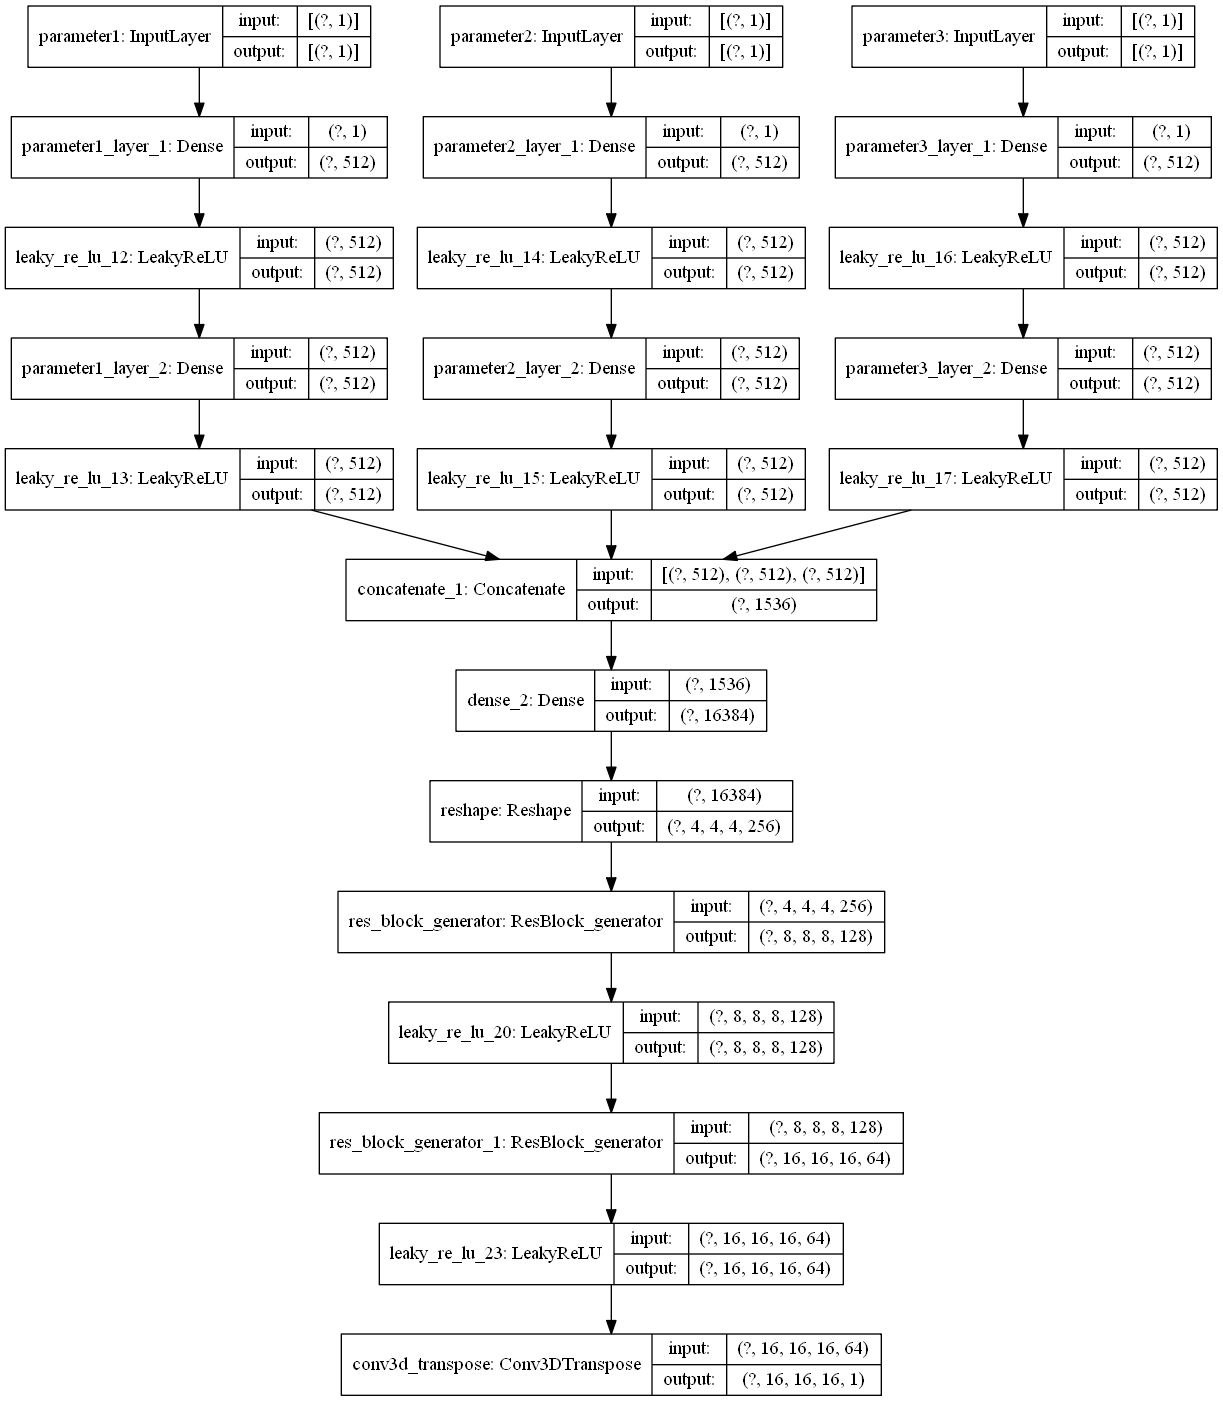
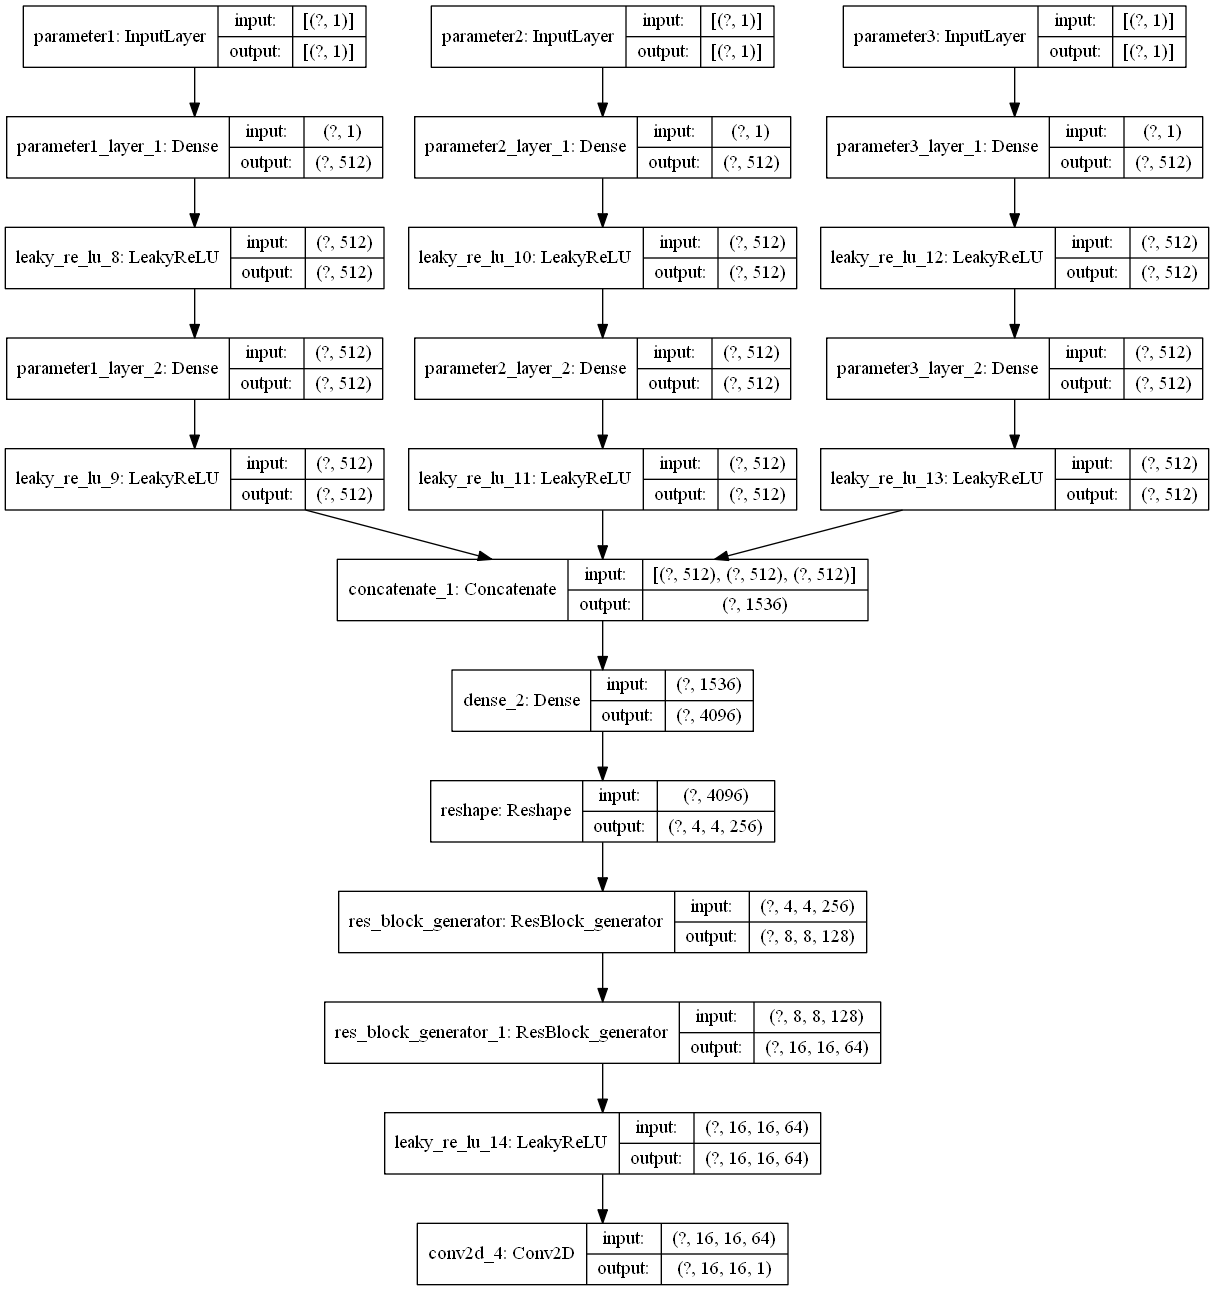
一個class的GAN修正完畢(加上PReLU和部分層修改)

Changed region(s): [[0.0, 0.0, 1.0, 1.0]]

diff --git a/GAN.py b/GAN.py
@@ -4,7 +4,6 @@ from tensorflow.keras import layers
 from tensorflow.keras.utils import plot_model
 from IPython.display import Image
 from functools import partial
-from math import log
 from resblock import ResBlock_generator, ResBlock_discriminator
 import tensorflow as tf
 from SpectralNormalization import SpectralNormalization
@@ -58,18 +57,18 @@ class GAN():
 
         concatenate = layers.concatenate(inputs = [x, y, z])
         
-        g =layers.Dense(4*4*4*int(self.width/4)*self.filterNumber)(concatenate)
-        g = layers.Reshape((4, 4, 4, int(self.width/4)*self.filterNumber))(g)
+        g =layers.Dense(4*4*int(self.width/4)*self.filterNumber)(concatenate)
+        g = layers.Reshape((4, 4,  int(self.width/4)*self.filterNumber))(g)
         
-        for i in range(int(log(self.width/4, 2))-1, -1, -1):
+        for i in range(int(tf.math.log(self.width/4, 2))-1, -1, -1):
            # g = SpectralNormalization(layers.Conv2DTranspose((2**i)*self.filterNumber, kernel_size=3, strides=2, padding='same', use_bias=False))(g)
             g = ResBlock_generator((2**i)*self.filterNumber)(g)
             #g = layers.Conv3DTranspose((2**i)*self.filterNumber, kernel_size=3, strides=2, padding='same', use_bias=False)(g)
-            g = layers.LeakyReLU()(g)
+        g = layers.LeakyReLU()(g)
         
 
         #g = SpectralNormalization(layers.Conv2DTranspose(1, kernel_size=3, strides=1, padding='same', use_bias=False))(g)
-        g = layers.Conv3DTranspose(1, kernel_size=3, strides=1, padding='same', use_bias=False)(g)
+        g = layers.Conv2D(1, kernel_size=3, strides=1, padding='same', use_bias=False)(g)
         
         #g = layers.Activation(tf.nn.tanh)(g)
         
@@ -82,7 +81,7 @@ class GAN():
         parameter1_input = keras.Input(shape = (1), name = 'parameter1')
         parameter2_input = keras.Input(shape = (1), name = 'parameter2')
         parameter3_input = keras.Input(shape = (1), name = 'parameter3')
-        dataInput = keras.Input(shape = (self.length,self.width, self.height, 1), name = 'groundTruth/fake')
+        dataInput = keras.Input(shape = (self.length,self.width, self.height), name = 'groundTruth/fake')
     
         x = layers.Dense(512, name = 'parameter1_layer_1')(parameter1_input)
         # if self.hparams[HP_BN_UNITS] : x = layers.BatchNormalization()(x)
@@ -109,7 +108,7 @@ class GAN():
         z = layers.LeakyReLU()(z)
 
         concatenate = layers.concatenate(inputs = [x, y, z])
-        xyz = layers.Dense((int(log(self.width/8, 2))+1)*self.filterNumber)(concatenate)    #Depends on how many level of conv2D you have
+        xyz = layers.Dense((int(tf.math.log(self.width/8, 2))+1)*self.filterNumber)(concatenate)    #Depends on how many level of conv2D you have
         xyz = layers.LeakyReLU()(xyz)
         
 
@@ -117,10 +116,10 @@ class GAN():
         #d = SpectralNormalization(layers.Conv3D(self.filterNumber, kernel_size=3, strides=2, padding='same', use_bias=False))(dataInput)
         d = ResBlock_discriminator(self.filterNumber)(dataInput)
        # d = layers.LeakyReLU()(d)
-        disConvOutput.append(d)
+    
         for i in range(1, int(log(self.width/2, 2))-1):
             d = ResBlock_discriminator((2**i)*self.filterNumber)(d)
-            disConvOutput.append(d)
+       
             #d = SpectralNormalization(layers.Conv3D((2**i)*self.filterNumber, kernel_size=3, strides=2, padding='same', use_bias=False))(d)
             #d = SpectralNormalization(layers.Conv2D((2**i)*self.filterNumber, kernel_size=3, strides=2, padding='same', use_bias=False))(d)#
             
@@ -128,13 +127,13 @@ class GAN():
         
 
 
-        d = tf.keras.layers.GlobalAveragePooling3D()(d) * (self.height*self.width*self.length)
+        d = tf.keras.layers.GlobalAveragePooling2D()(d) * (self.height*self.width*self.length)
         
         f1 = tf.multiply(d, xyz)
         f2 = layers.Dense(1)(d)
         r = layers.Add()([f1, f2])
         
-        model = keras.Model(inputs = [parameter1_input, parameter2_input, parameter3_input, dataInput], outputs = [r, disConvOutput])
+        model = keras.Model(inputs = [parameter1_input, parameter2_input, parameter3_input, dataInput], outputs = r)
         #model = keras.Model(inputs = [dataInput], outputs = d)
         plot_model(model, to_file = "WGAN_Discriminator.png", show_shapes=True)
         return model
@@ -144,13 +143,15 @@ class GAN():
         #volumetric loss
         l2_norm = tf.norm(tensor = (fake_data_by_real_parameter-real_data[1]), ord='euclidean') / (self.length*self.width*self.height)
         #Feature loss
-        feature_loss = 0
-        for i in range(len(fake_logit[1])):
-            feature_loss += tf.norm(tensor = (fake_logit[1][i]-real_logit[1][i]), ord='euclidean')
-        feature_loss/= len(fake_logit[1])
+        # feature_loss = 0
+        # for i in range(len(fake_logit[1])):
+        #     feature_loss += tf.norm(tensor = (fake_logit[1][i]-real_logit[1][i]), ord='euclidean')
+        #feature_loss/= len(fake_logit)
+
+
         #Adversarial loss
-        g_loss = - tf.reduce_mean(fake_logit[0])
-        return g_loss, l2_norm, feature_loss
+        g_loss = - tf.reduce_mean(fake_logit)
+        return g_loss, l2_norm#, feature_loss
 
     def discriminator_loss(self, real_logit, fake_logit):
         real_loss = -tf.reduce_mean(real_logit)
@@ -169,7 +170,7 @@ class GAN():
             tape.watch(x_img)
             pred_logit = dis([real_data[0][0], real_data[0][1], real_data[0][2], x_img])
             #pred_logit = dis([x_img])
-        grad = tape.gradient(pred_logit[0], x_img)
+        grad = tape.gradient(pred_logit, x_img)
         norm = tf.norm(tf.reshape(grad, [tf.shape(grad)[0], -1]), axis = 1)
         gp_loss = tf.reduce_mean((norm-1.)**2)
         return gp_loss    
@@ -184,8 +185,8 @@ class GAN():
             fake_logit = self.dis([random_vector1, random_vector2, random_vector3, fake_data_by_random_parameter], training = False)
             real_logit = self.dis([real_data[0][0], real_data[0][1], real_data[0][2], fake_data_by_real_parameter], training = False)
             #fake_logit = self.dis([fake_data_by_random_parameter], training = False)
-            fake_loss, l2_norm, feature_loss= self.generator_loss(real_logit, fake_logit, real_data, fake_data_by_real_parameter)
-            gLoss = fake_loss + self.L2_coefficient * l2_norm + self.feature_cofficient * feature_loss
+            fake_loss, l2_norm= self.generator_loss(real_logit, fake_logit, real_data, fake_data_by_real_parameter)
+            gLoss = fake_loss + self.L2_coefficient * l2_norm #+ self.feature_cofficient * feature_loss
         gradients = tape.gradient(gLoss, self.gen.trainable_variables)
         self.genOptimizer.apply_gradients(zip(gradients, self.gen.trainable_variables))
         return gLoss
@@ -199,7 +200,7 @@ class GAN():
             #real_logit = self.dis([real_data[1]] , training = True)
             fake_logit = self.dis([random_vector1, random_vector2, random_vector3, fake_data], training = True)
             #fake_logit = self.dis([fake_data], training = True)
-            real_loss, fake_loss = self.discriminator_loss(real_logit[0], fake_logit[0])
+            real_loss, fake_loss = self.discriminator_loss(real_logit[0], fake_logit)
             gp_loss = self.gradient_penality(partial(self.dis, training = True), real_data, fake_data)
             dLoss = (real_loss + fake_loss) + gp_loss*self.gradient_penality_width
 

diff --git a/resblock.py b/resblock.py
@@ -6,27 +6,27 @@ class ResBlock_generator(layers.Layer):
       super(ResBlock_generator, self).__init__()
 
       
-      self.bn_0 = layers.BatchNormalization()
-      self.relu0 = layers.LeakyReLU()
-      self.upSample = layers.UpSampling3D()
-      self.conv_1 = SpectralNormalization(layers.Conv3D(out_shape,kernel_size=3,strides=1,padding='same', name = 'rg_conv1'))
-      self.bn_1 = layers.BatchNormalization()
-      self.relu1 = layers.LeakyReLU()
-      self.conv_2 = SpectralNormalization(layers.Conv3D(out_shape,kernel_size=3,strides=1,padding='same', name = 'rg_conv2'))
+      #self.bn_0 = layers.BatchNormalization()
+      self.relu0 = layers.PReLU()
+      self.upSample = layers.UpSampling2D()
+      self.conv_1 = SpectralNormalization(layers.Conv2D(out_shape,kernel_size=3,strides=1,padding='same', name = 'rg_conv1'))
+      #self.bn_1 = layers.BatchNormalization()
+      self.relu1 = layers.PReLU()
+      self.conv_2 = SpectralNormalization(layers.Conv2D(out_shape,kernel_size=3,strides=1,padding='same', name = 'rg_conv2'))
       
 
       #identity
-      self.upSample_identity = layers.UpSampling3D()
-      self.conv_identity = SpectralNormalization(layers.Conv3D(out_shape,kernel_size=1,strides=1))
+      self.upSample_identity = layers.UpSampling2D()
+      self.conv_identity = layers.Conv2D(out_shape,kernel_size=1,strides=1)
 
 
   def call(self, inputs, training=None):
 
-      x = self.bn_0(inputs)
-      x = self.relu0(x)
+      #x = self.bn_0(inputs)
+      x = self.relu0(inputs)
       x = self.upSample(x)
       x = self.conv_1(x)
-      x = self.bn_1(x)
+      #x = self.bn_1(x)
       x = self.relu1(x)
       x = self.conv_2(x)
       
@@ -41,14 +41,14 @@ class ResBlock_discriminator(layers.Layer):
   def __init__(self, out_shape, strides=1, residual_path=False):
       super(ResBlock_discriminator, self).__init__()
 
-      self.relu0 = layers.LeakyReLU()
-      self.conv_1 = SpectralNormalization(layers.Conv3D(out_shape,kernel_size=3,strides=1,padding='same', name = 'rd_conv1'))
-      self.relu1 = layers.LeakyReLU()
-      self.conv_2 = SpectralNormalization(layers.Conv3D(out_shape,kernel_size=3,strides=1,padding='same', name = 'rd_conv2'))
-      self.average_pool = layers.AveragePooling3D()
+      self.relu0 = layers.PReLU()
+      self.conv_1 = SpectralNormalization(layers.Conv2D(out_shape,kernel_size=3,strides=1,padding='same', name = 'rd_conv1'))
+      self.relu1 = layers.PReLU()
+      self.conv_2 = SpectralNormalization(layers.Conv2D(out_shape,kernel_size=3,strides=1,padding='same', name = 'rd_conv2'))
+      self.average_pool = layers.AveragePooling2D()
 
       #identity
-      self.conv_identity = SpectralNormalization(layers.Conv3D(out_shape, kernel_size=1 ,strides=1))
+      self.conv_identity = layers.Conv2D(out_shape, kernel_size=1 ,strides=1)
 
 
   def call(self, inputs, training=None):

diff --git a/loadData.py b/loadData.py
@@ -21,7 +21,7 @@ def generateData(dataSetConfig):
     
     def process_input_data(ds):
         ds = tf.io.decode_raw(ds, dataType[dataSetConfig['dataType']][1])
-        ds = tf.reshape(ds, [dataSetConfig['width'], dataSetConfig['length'], dataSetConfig['height'], 1])       
+        ds = tf.reshape(ds, [dataSetConfig['width'], dataSetConfig['length'], dataSetConfig['height']])       
         return  ds
         
     AUTOTUNE = tf.data.experimental.AUTOTUNE

diff --git a/config.py b/config.py
@@ -15,12 +15,12 @@ Nyx={
 'batchSize' : 32,
 'length' : 16,
 'width' : 16,
-'height' : 16,
+'height' : 1,
 'dataType' : 'float',
 'numberOfParameter' : 3,
 'numberOfParameterDigit' : 7,
 'stopConsecutiveEpoch' : 1000,
-'dataSetDir' : r'E:\NTNU1-2\Nyx\NyxDataSet\NyxDataSet16_16_16',
+'dataSetDir' : r'E:\NTNU1-2\Nyx\NyxDataSet\NyxDataSet16_16',
 'startingTime' : startingTime,
 'logDir' : 'E:\\NTNU1-2\\Nyx\\NyxDataSet\\wgan\\' + startingDate + '\\'
 
